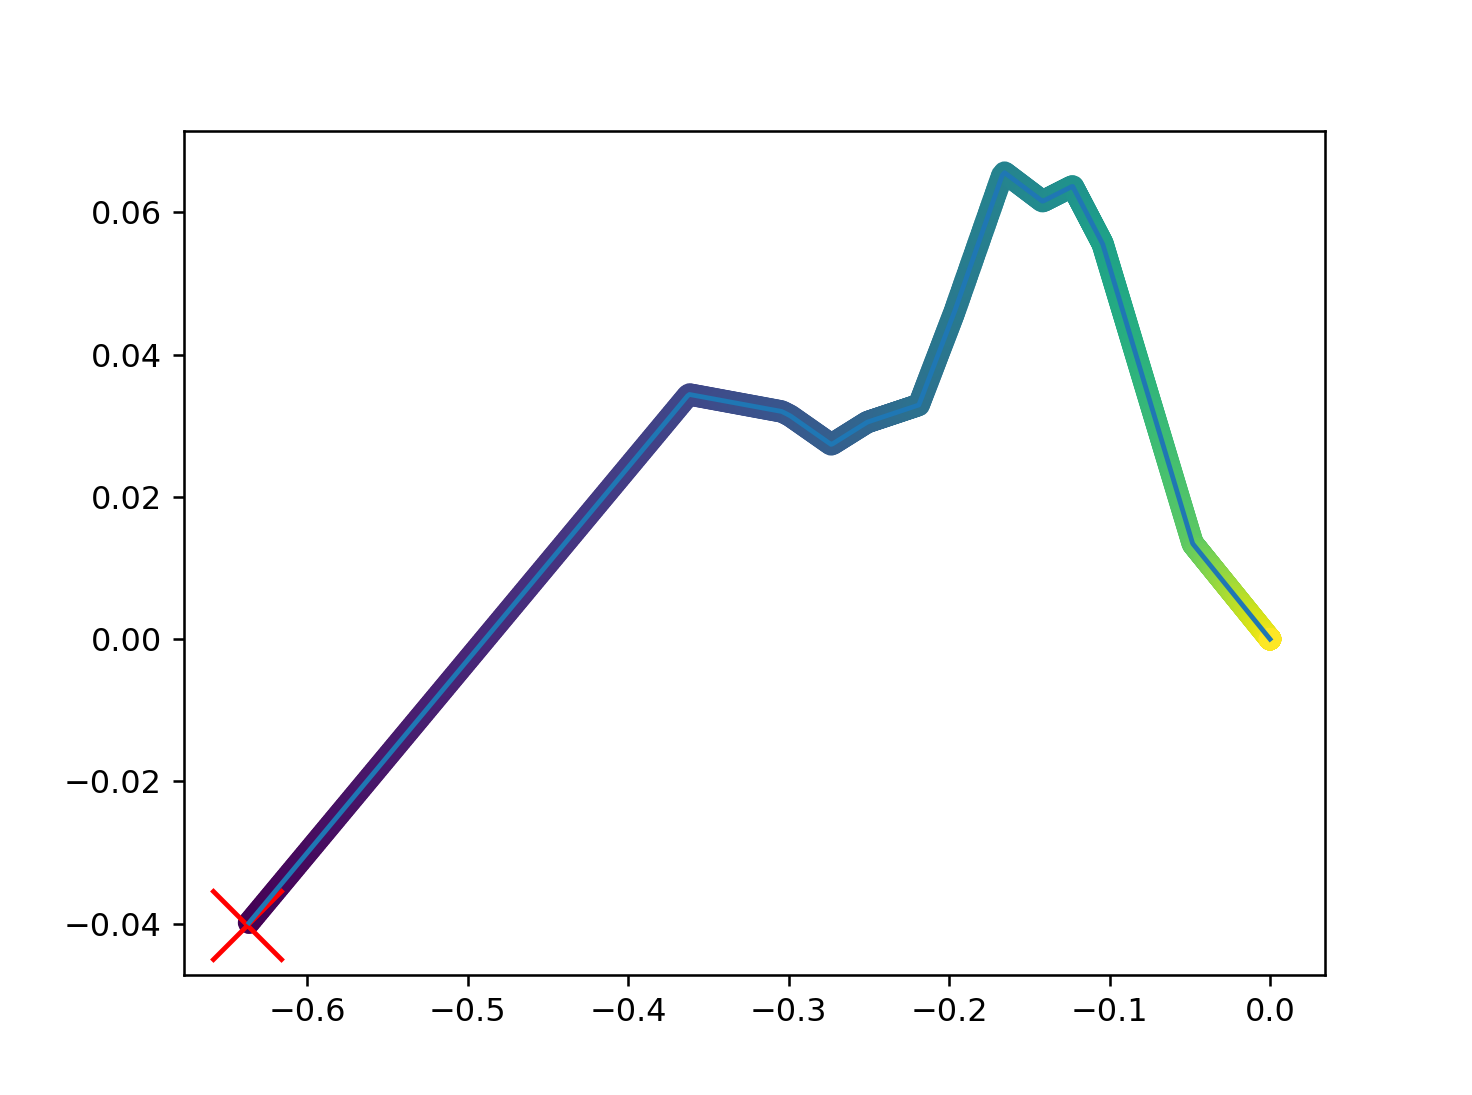
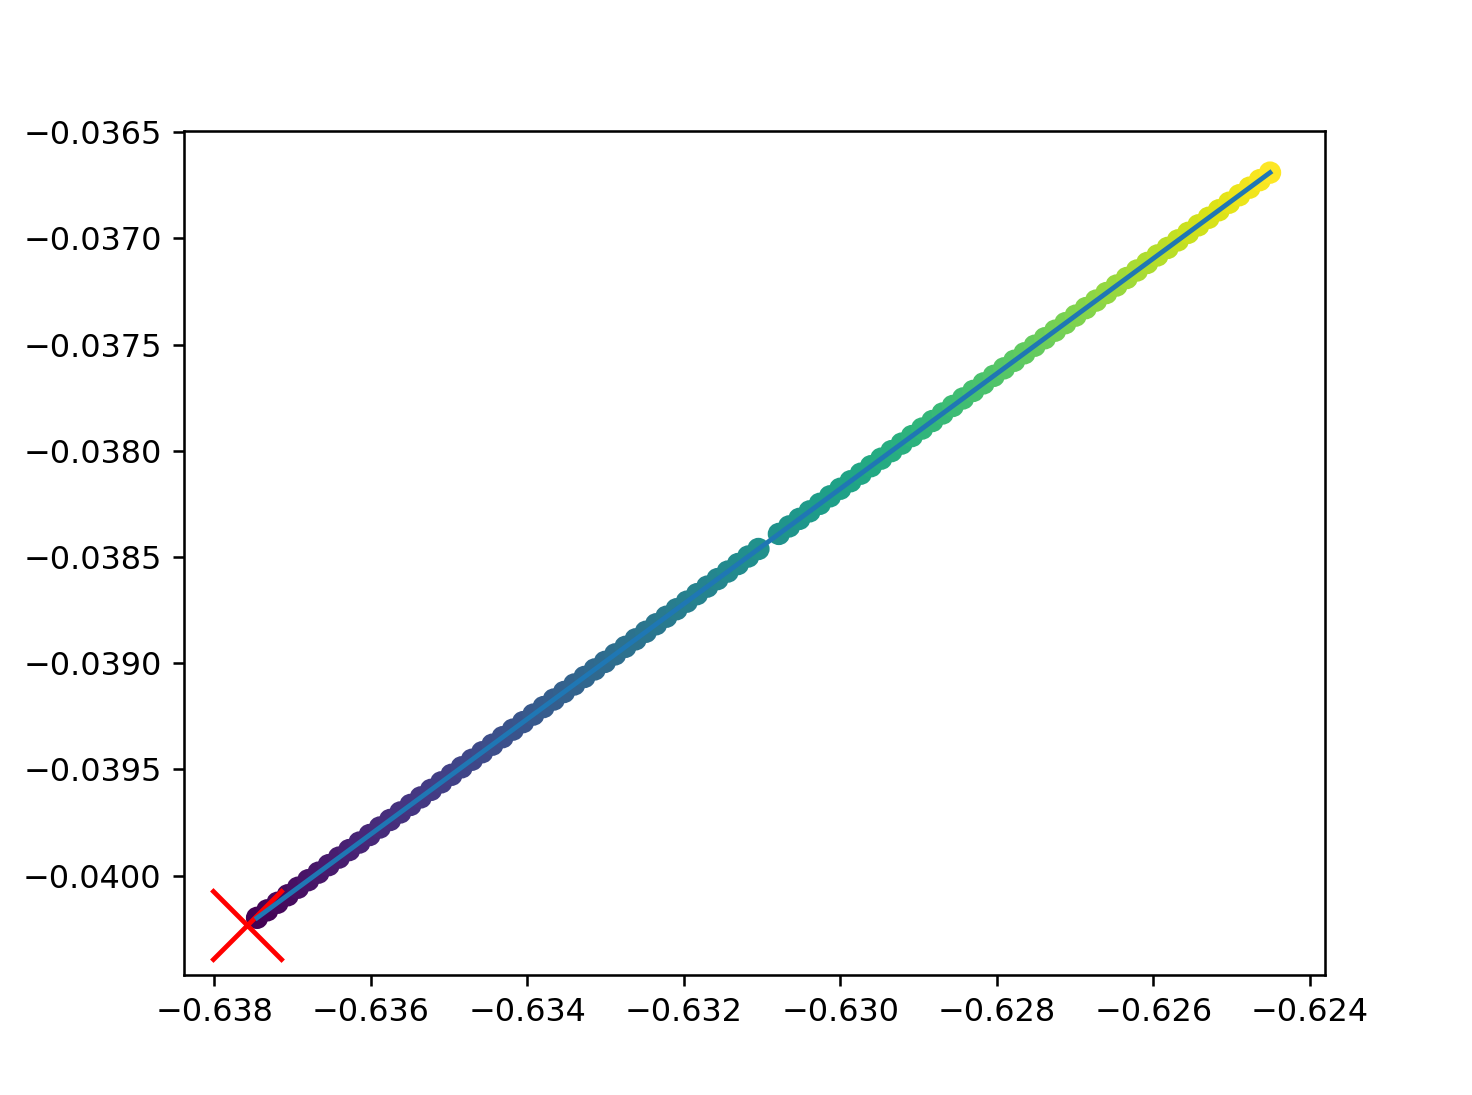
Projection via PCA for dataviz

diff --git a/lasso_solutions_projected.py b/lasso_solutions_projected.py
@@ -17,7 +17,7 @@ dpi = 230 # Resolution used for plotting (230 for small screen, 100 for large on
 data_size = 100 
 data_number = round(data_size/2)
 sparsity_level = 10
-noise_level = 0.01
+noise_level = 0.001*0
 
 # We define the main components of our problem
 Phi = np.random.randn(data_number,data_size)
@@ -25,19 +25,19 @@ x0 = np.sign(sparse.randn(data_size,1,sparsity_level))
 noise = noise_level * np.random.randn(data_number,1)
 y = Phi@x0 + noise
 
-
-
 # Let's compute all the solution of the LASSO (computed with the Forward-Backward algorithm) for various values of reg_param
-arr = np.empty((data_size,0), int)
-for reg_param in np.round(np.linspace(0.11,100,999),1):
-    if reg_param < 1:
-        iter_nb=3000
+sol_list = np.empty((data_size,0), int)
+for reg_param in np.round(np.linspace(0.01,1,99),2):
+    if reg_param < 0.1:
+        iter_nb=40000
+    elif reg_param < 1:
+        iter_nb=4000
     elif reg_param < 10:
         iter_nb = 1000
     else:
         iter_nb = 200
     x_reg = fb.lasso(Phi, y, reg_param, iter_nb)
-    arr = np.concatenate((x_reg, arr), axis=1)
+    sol_list = np.concatenate((x_reg, sol_list), axis=1)
 #np.save("data_lasso_solutions", arr)
 #arr = np.load("data_lasso_solutions.npy")
 
@@ -45,8 +45,8 @@ for reg_param in np.round(np.linspace(0.11,100,999),1):
 u,v = sparse.rand_plane(data_size)
 _, x0_proj = sparse.proj_plane(x0,u,v)
 arr_proj = np.empty((2,0), int)
-for i in np.arange(arr.shape[1]):
-    _, x_proj = sparse.proj_plane(arr[:,i],u,v)
+for i in np.arange(sol_list.shape[1]):
+    _, x_proj = sparse.proj_plane(sol_list[:,i],u,v)
     arr_proj = np.concatenate((x_proj, arr_proj), axis=1)
 
 plt.figure(dpi=dpi)
@@ -56,3 +56,17 @@ plt.scatter(x0_proj[0],x0_proj[1],c='r',marker='x',s=500)
 plt.show()
 
 
+M = np.mean(sol_list,axis=1)
+C = sol_list.T - M
+V = np.cov(C.T)
+_, vectors = la.eig(V)
+P = vectors.T.dot(sol_list)
+sol_proj_list = np.real(P[0:2,:])
+P0 = vectors.T.dot(x0)
+x0_proj = np.real(P0[0:2,:])
+
+plt.figure(dpi=dpi)
+plt.plot(sol_proj_list[0,:],sol_proj_list[1,:])
+plt.scatter(sol_proj_list[0,:],sol_proj_list[1,:],c=np.arange(sol_proj_list.shape[1]))
+plt.scatter(x0_proj[0],x0_proj[1],c='r',marker='x',s=500)
+plt.show()

diff --git a/lasso_solutions.py b/lasso_solutions.py
@@ -34,8 +34,8 @@ sparse.stem(x_pinv,"C1","pinv solution")
 plt.show()
 
 # Let's compare the ground truth with the solution of the LASSO (computed with the Forward-Backward algorithm)
-reg_param = 0.1
-iter_nb = 3000
+reg_param = 0.01
+iter_nb = 30000
 
 x_reg = fb.lasso(Phi, y, reg_param, iter_nb)
 _ = plt.figure(dpi=dpi)
